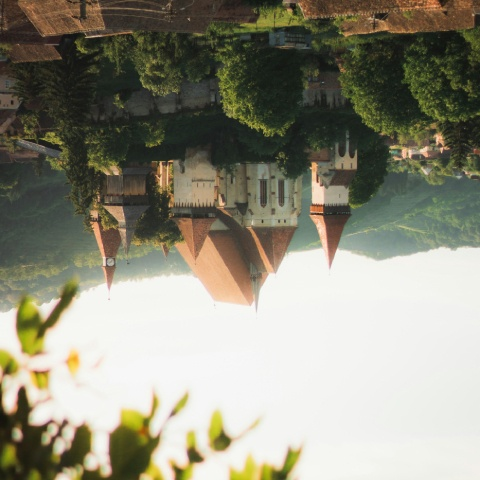
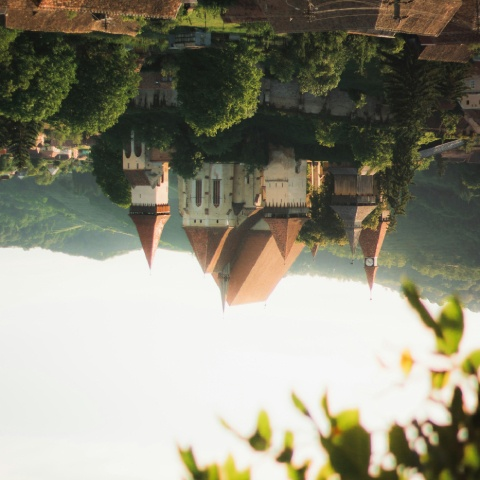
refactor: reducing and rearranging some lines of code

diff --git a/Phase2/3. rotation.py b/Phase2/3. rotation.py
@@ -1,6 +1,6 @@
 import cv2
 
-image = cv2.imread("assets/image1.jpg")
+image = cv2.imread("image_assets/image1.jpg")
 
 if image is not None:
     # Get the dimensions of the image
@@ -15,7 +15,7 @@ if image is not None:
     # Get the rotation matrix
     M = cv2.getRotationMatrix2D(center, angle, scale)
     rotated_image = cv2.warpAffine(image, M, (w, h))
-    save = cv2.imwrite('assets/rotated_image.jpg', rotated_image)
+    save = cv2.imwrite('image_assets/rotated_image.jpg', rotated_image)
     
     cv2.imshow('Original Image', image)
     cv2.imshow('Rotated Image', rotated_image)

diff --git a/Phase2/2. resizing.py b/Phase2/2. resizing.py
@@ -1,6 +1,6 @@
 import cv2
 
-image = cv2.imread('assets/image1.jpg')
+image = cv2.imread('image_assets/image1.jpg')
 # width = 800 and then height = 600
 
 if image is None:
@@ -10,7 +10,7 @@ else:
   
   resized_image = cv2.resize(image, (800, 600))
   
-  save = cv2.imwrite('assets/resized_image.jpg', resized_image)
+  save = cv2.imwrite('image_assets/resized_image.jpg', resized_image)
   
   cv2.imshow('Original Image', image)
   cv2.imshow('Resized Image', resized_image)

diff --git a/Phase2/4. fliping.py b/Phase2/4. fliping.py
@@ -1,6 +1,6 @@
 import cv2
 
-image = cv2.imread("assets/image1.jpg")
+image = cv2.imread("image_assets/image1.jpg")
 
 if image is not None:
 
@@ -8,7 +8,7 @@ if image is not None:
     
     flipped_image = cv2.flip(image, flip_code)
     
-    save = cv2.imwrite('assets/flipped_image.jpg', flipped_image)
+    save = cv2.imwrite('image_assets/flipped_image.jpg', flipped_image)
     
     cv2.imshow('Original Image', image)
     cv2.imshow('Flipped Image', flipped_image)

diff --git a/Phase2/6. draw_rectangle.py b/Phase2/6. draw_rectangle.py
@@ -1,6 +1,6 @@
 import cv2
 
-image = cv2.imread('assets/image1.jpg')
+image = cv2.imread('image_assets/image1.jpg')
 
 if image is None:
   print("Oh no! Could not read the image.")
@@ -18,5 +18,5 @@ else:
   cv2.waitKey(0)
   cv2.destroyAllWindows()
   
-  save = cv2.imwrite("assets/rectangle_image.jpg",rectangle)
+  save = cv2.imwrite("image_assets/rectangle_image.jpg",rectangle)
   print("Image saved Successfully!")

diff --git a/Phase2/7. draw_circle.py b/Phase2/7. draw_circle.py
@@ -1,6 +1,6 @@
 import cv2
 
-image = cv2.imread('assets/image1.jpg')
+image = cv2.imread('image_assets/image1.jpg')
 
 if image is None:
   print("Oh no! Could not read the image.")
@@ -18,6 +18,6 @@ else:
   cv2.waitKey(0)
   cv2.destroyAllWindows()
   
-  save = cv2.imwrite("assets/circle_image.jpg",circle)
+  save = cv2.imwrite("image_assets/circle_image.jpg",circle)
   print("Image saved Successfully!")
 

diff --git a/Phase2/8. add_text.py b/Phase2/8. add_text.py
@@ -1,6 +1,6 @@
 import cv2
 
-image = cv2.imread('assets/image4.jpg')
+image = cv2.imread('image_assets/image4.jpg')
 
 if image is None:
   print("Oh no! Could not read the image.")
@@ -20,5 +20,5 @@ else:
   cv2.waitKey(0)
   cv2.destroyAllWindows()
   
-  save = cv2.imwrite("assets/text_image.jpg",text)
+  save = cv2.imwrite("image_assets/text_image.jpg",text)
   print("Image saved Successfully!") 

diff --git a/Phase2/5. draw_line.py b/Phase2/5. draw_line.py
@@ -1,6 +1,6 @@
 import cv2
 
-image = cv2.imread("assets/image1.jpg")
+image = cv2.imread("image_assets/image1.jpg")
 
 if image is None:
   print("Oh no! Could not read the image.")
@@ -37,5 +37,5 @@ else:
   cv2.waitKey(0)
   cv2.destroyAllWindows()
   
-  save = cv2.imwrite("assets/line_image.jpg",line)
+  save = cv2.imwrite("image_assets/line_image.jpg",line)
   print("Image saved Successfully!")

diff --git a/Phase2/1. cropping.py b/Phase2/1. cropping.py
@@ -1,11 +1,11 @@
 import cv2
 
-image = cv2.imread('assets/image1.jpg')
+image = cv2.imread('image_assets/image1.jpg')
 if image is not None:
   
   cropped = image[200:300 , 130:170]
   
-  save = cv2.imwrite('assets/cropped_image.jpg', cropped)
+  save = cv2.imwrite('image_assets/cropped_image.jpg', cropped)
   
   cv2.imshow('Cropped Image', cropped)
   cv2.waitKey(0)
